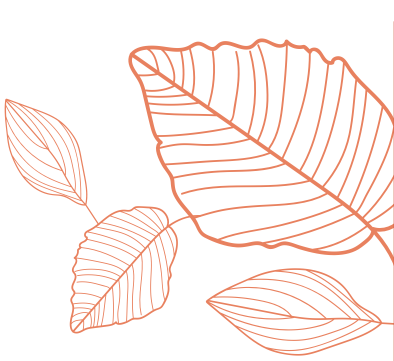
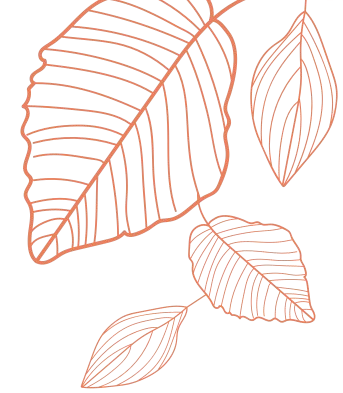
Fix serer img

Changed region(s): [[0.0, 0.0, 1.0, 1.0]]

diff --git a/terres-de-laya-portal/src/app/pages/signup/signup.component.html b/terres-de-laya-portal/src/app/pages/signup/signup.component.html
@@ -16,10 +16,6 @@ icon="undo-2"
 
 <div id="signup-form-section">
     <h2>Inscription</h2>
-    <p>
-        Déjà inscrit ?
-        <a routerLink="/login">Se connecter</a>
-    </p>
 
     <form [formGroup]="signUpForm" (ngSubmit)="onSubmit()">
 
@@ -52,12 +48,13 @@ icon="undo-2"
         <div class="status-radio">
             <div>
                 <label tuiLabel>
-                    <input name="status" tuiRadio type="radio" [value]="'locataire'" formControlName="status" />
-                    Locataire
-                </label>
-                <label tuiLabel>
                     <input name="status" tuiRadio type="radio" [value]="'proprietaire'" formControlName="status" />
                     Propriétaire
+                </label>
+
+                <label tuiLabel>
+                    <input name="status" tuiRadio type="radio" [value]="'locataire'" formControlName="status" />
+                    Locataire
                 </label>
             </div>
         </div>

diff --git a/terres-de-laya-portal/src/app/layout/layout.component.html b/terres-de-laya-portal/src/app/layout/layout.component.html
@@ -44,6 +44,12 @@
             <h2>Aide</h2>
             <a href="/faq">FAQ</a>
         </div>
+
+        <img
+            id="leafs-accent"
+            alt="leafs-accent"
+            src="/leafs-accent.png"
+        >
     </div>
 
 </footer>

diff --git a/terres-de-laya-portal/src/app/layout/layout.component.scss b/terres-de-laya-portal/src/app/layout/layout.component.scss
@@ -83,6 +83,10 @@ footer {
         }
     }
 
+    #leafs-accent {
+        width: 70%;
+    }
+
     padding: 0 20%;
 
 }
